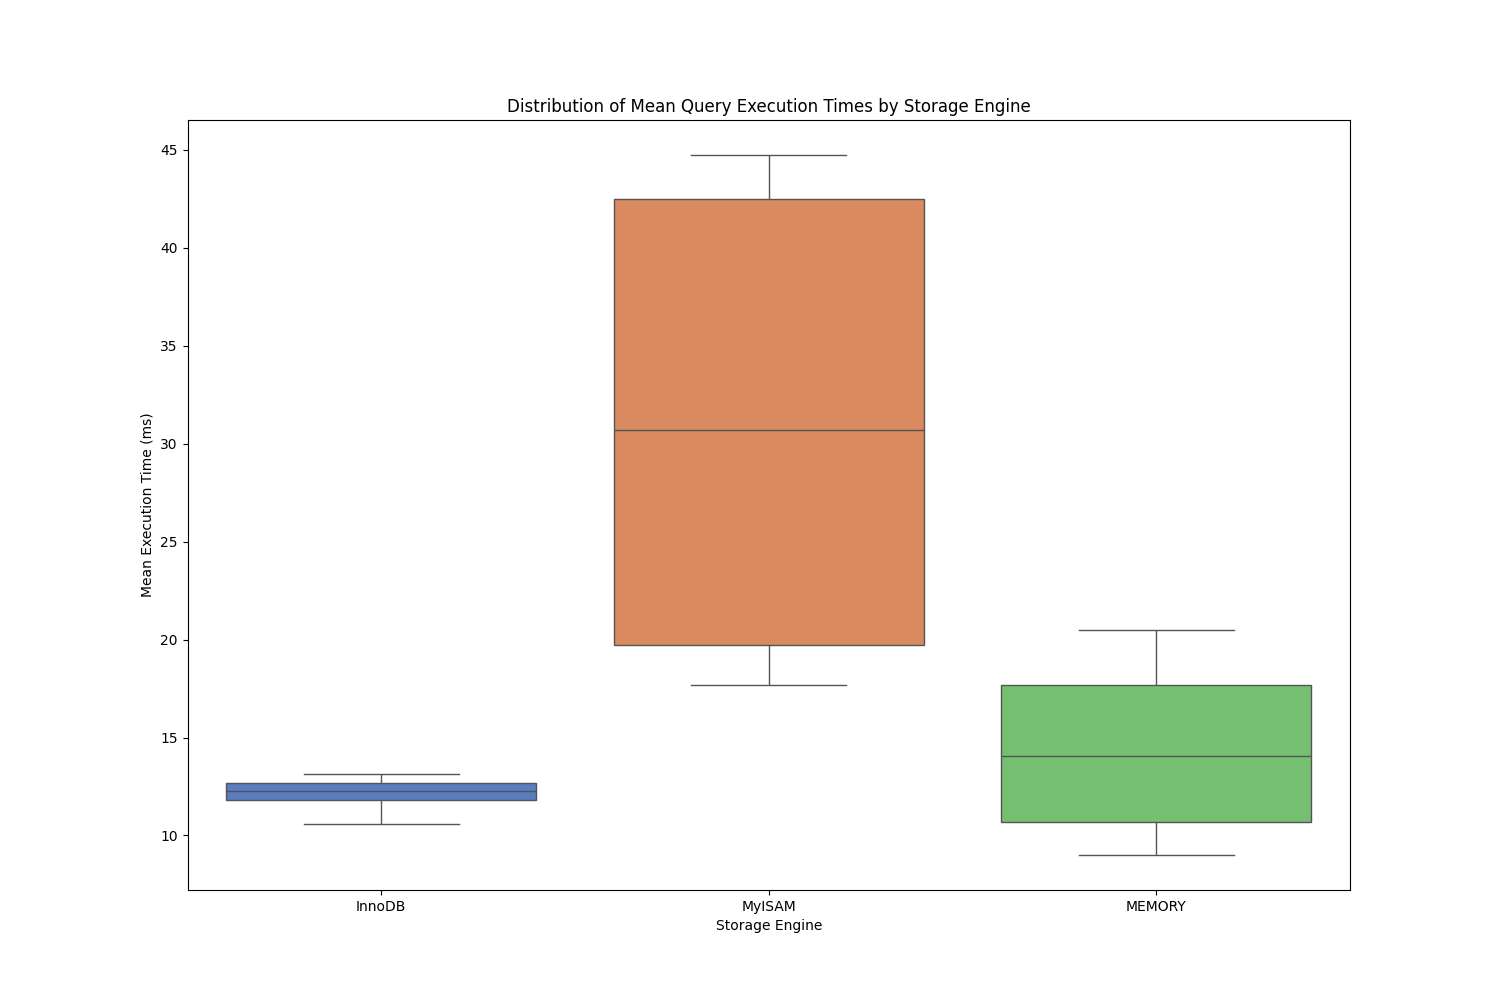
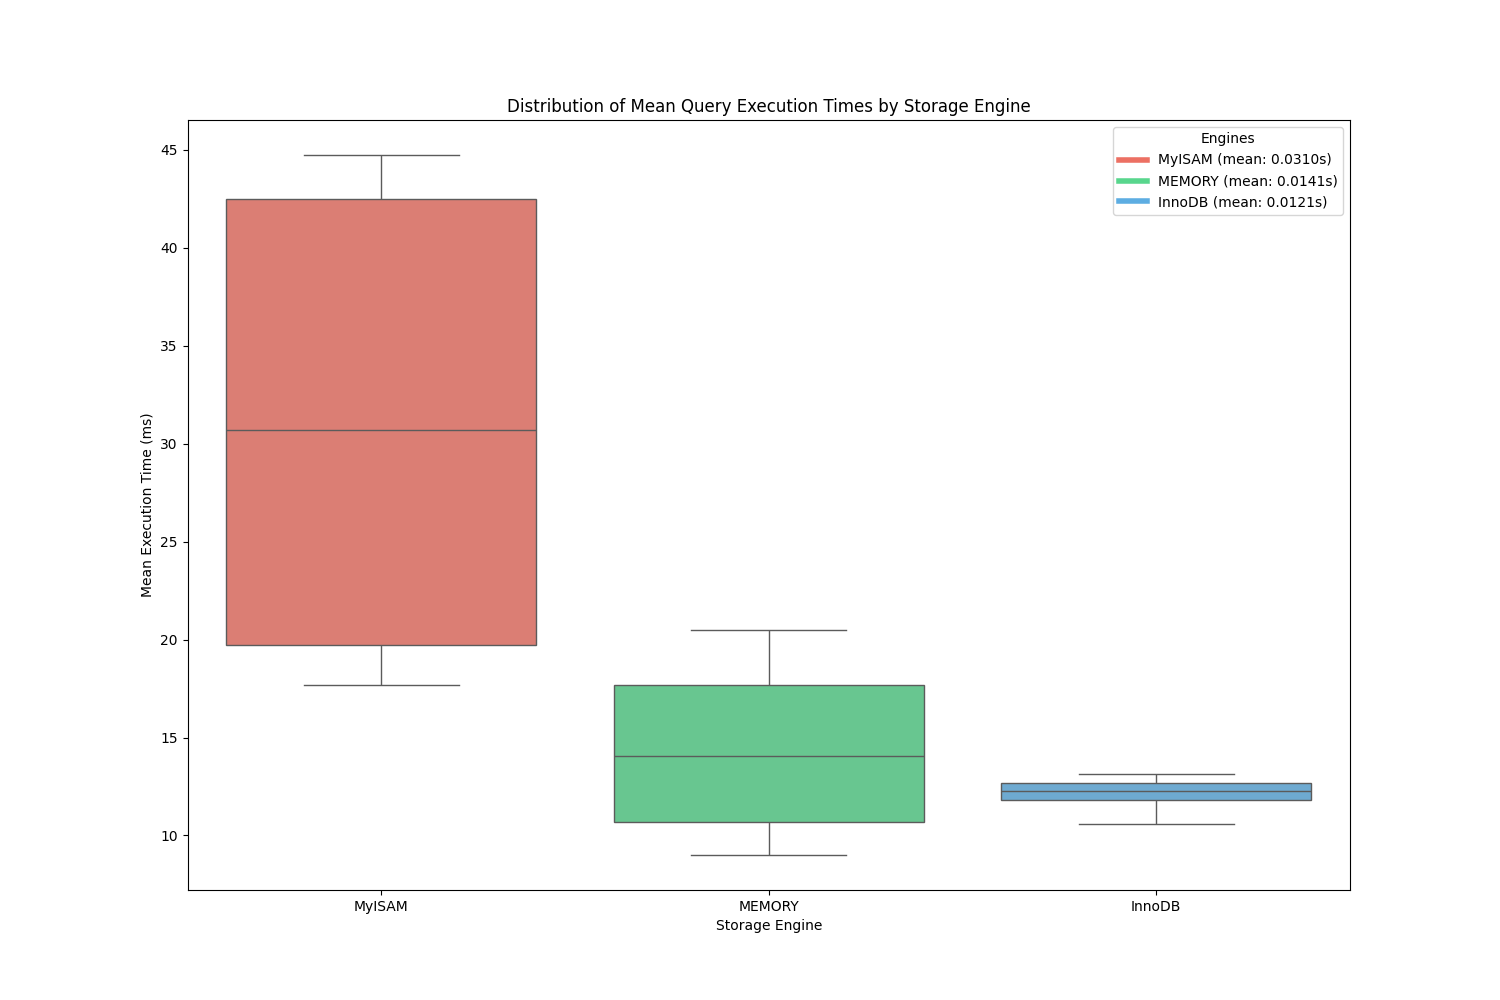
Fixed boxplots for mysql

diff --git a/.history/src/mysql_performance_analysis_20240608100408.py b/.history/src/mysql_performance_analysis_20240608100408.py
@@ -49,19 +49,17 @@ class CSVVisualizer:
         # Calculate the mean times for each engine
         mean_times = self.data.groupby('Engine')['MeanQueryTime'].mean().to_dict()
 
-        # Define the order of engines and a custom palette
-        engine_order = ['MyISAM', 'MEMORY', 'InnoDB']
-        palette = {'InnoDB': '#5DADE2', 'MEMORY': '#58D68D', 'MyISAM': '#EC7063'}
-
         plt.figure(figsize=(15, 10))
-        boxplot = sns.boxplot(x='Engine', y='MeanQueryTime', data=self.data, order=engine_order, palette=palette)
+        # Use a custom palette for the boxplot
+        palette = {'InnoDB': '#5DADE2', 'MEMORY': '#58D68D', 'MyISAM': '#EC7063'}
+        boxplot = sns.boxplot(x='Engine', y='MeanQueryTime', data=self.data, palette=palette)
         plt.ylabel("Mean Execution Time (ms)")
         plt.xlabel("Storage Engine")
         plt.title("Distribution of Mean Query Execution Times by Storage Engine")
 
         # Add the mean times to the legend
-        legend_labels = [f'{engine} (mean: {mean_times[engine]/1000:.4f}s)' for engine in engine_order]
-        handles = [plt.Line2D([0], [0], color=palette[engine], lw=4) for engine in engine_order]
+        legend_labels = [f'{engine} (mean: {mean_time:.4f}s)' for engine, mean_time in mean_times.items()]
+        handles = [plt.Line2D([0], [0], color=color, lw=4) for color in palette.values()]
         plt.legend(handles, legend_labels, title="Engines")
 
         plt.savefig(f"{self.figure_path}boxplot.png")

diff --git a/.history/src/mysql_performance_analysis_20240608100549.py b/.history/src/mysql_performance_analysis_20240608100549.py
@@ -41,7 +41,7 @@ class CSVVisualizer:
         plt.savefig(f"{self.figure_path}clustered_heatmap.png")
         plt.close()
 
-    def plot_boxplot(self) -> None:
+def plot_boxplot(self) -> None:
         """Generates and saves a boxplot for query execution times by engine with mean times in legend."""
         # Compute the mean execution time across all queries for each index and engine
         self.data['MeanQueryTime'] = self.data[['Q1', 'Q2', 'Q3', 'Q4', 'Q5', 'Q6', 'Q7']].mean(axis=1)
@@ -60,7 +60,7 @@ class CSVVisualizer:
         plt.title("Distribution of Mean Query Execution Times by Storage Engine")
 
         # Add the mean times to the legend
-        legend_labels = [f'{engine} (mean: {mean_times[engine]/1000:.4f}s)' for engine in engine_order]
+        legend_labels = [f'{engine} (mean: {mean_times[engine]:.4f}s)' for engine in engine_order]
         handles = [plt.Line2D([0], [0], color=palette[engine], lw=4) for engine in engine_order]
         plt.legend(handles, legend_labels, title="Engines")
 

diff --git a/.history/src/mysql_performance_analysis_20240608100701.py b/.history/src/mysql_performance_analysis_20240608100701.py
@@ -60,7 +60,7 @@ class CSVVisualizer:
         plt.title("Distribution of Mean Query Execution Times by Storage Engine")
 
         # Add the mean times to the legend
-        legend_labels = [f'{engine} (mean: {mean_times[engine]/1000:.4f}s)' for engine in engine_order]
+        legend_labels = [f'{engine} (mean: {mean_times[engine]:.4f}ms)' for engine in engine_order]
         handles = [plt.Line2D([0], [0], color=palette[engine], lw=4) for engine in engine_order]
         plt.legend(handles, legend_labels, title="Engines")
 

diff --git a/.history/src/mysql_performance_analysis_20240608100557.py b/.history/src/mysql_performance_analysis_20240608100557.py
@@ -60,7 +60,7 @@ class CSVVisualizer:
         plt.title("Distribution of Mean Query Execution Times by Storage Engine")
 
         # Add the mean times to the legend
-        legend_labels = [f'{engine} (mean: {mean_times[engine]/1000:.4f}s)' for engine in engine_order]
+        legend_labels = [f'{engine} (mean: {mean_times[engine]:.4f}s)' for engine in engine_order]
         handles = [plt.Line2D([0], [0], color=palette[engine], lw=4) for engine in engine_order]
         plt.legend(handles, legend_labels, title="Engines")
 
